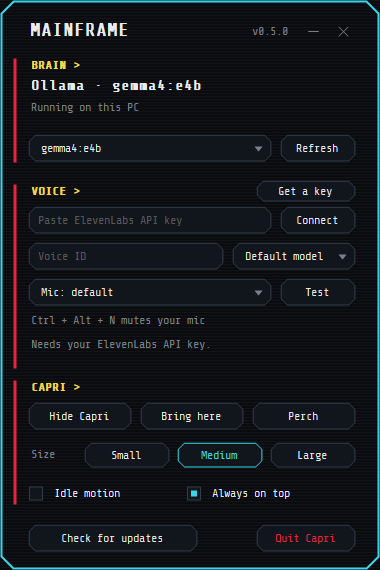
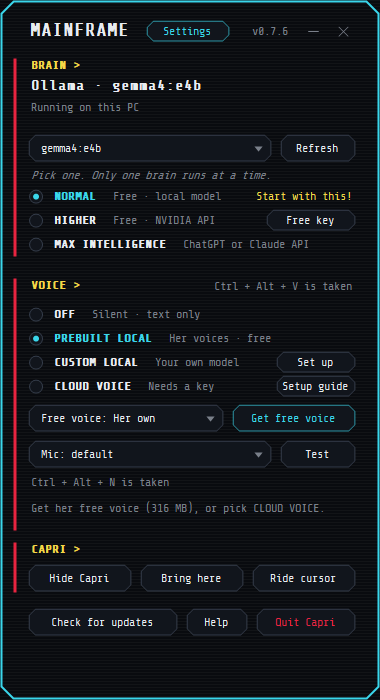
her readme gets a face lift: download buttons and badges, the fan notice up top, games and her mini player in what she does, 0.7.6 pictures, a her voice section with the cloning policy, and the roadmap folded away

diff --git a/README.md b/README.md
@@ -1,39 +1,34 @@
-<p align="center">
-  <img src="assets/chip-source.png" alt="Chip" width="40%" align="middle">
-  <img src="assets/capri.png" alt="Capri" width="40%" align="middle">
-</p>
+<div align="center">
 
-<p align="center">
-  Bring Capri (back lol) to life as a desktop companion! Inspired by jpartnma_'s tiktok video.
-</p>
+<img src="assets/capri.png" alt="Capri" width="240">
 
-<p align="center">
-  <a href="https://github.com/lachydotmcg/capri-desktop/releases/latest/download/Capri-Setup.exe"><b>Download for Windows</b></a>
-  &nbsp;·&nbsp;
-  <a href="#mac-and-linux-early-preview">Mac and Linux</a>
-  &nbsp;·&nbsp;
-  <a href="https://lachydotmcg.github.io/capri-desktop/setup/">Setup guide</a>
-  &nbsp;·&nbsp;
-  <a href="https://lachydotmcg.github.io/capri-desktop/">Website</a>
-  &nbsp;·&nbsp;
-  <a href="https://discord.gg/F4fDHfGtFk">Discord</a>
-  &nbsp;·&nbsp;
-  <a href="#support">Support</a>
-</p>
+# Capri
+
+**Bring Capri (back lol) to life as a desktop companion!**<br>
+She sits on your windows, talks back, plays your games and gets into everything.
+
+<a href="https://github.com/lachydotmcg/capri-desktop/releases/latest/download/Capri-Setup.exe"><img src="https://img.shields.io/badge/Download%20for%20Windows-ff2a6d?style=for-the-badge" alt="Download for Windows"></a>
+<a href="#mac-and-linux-early-preview"><img src="https://img.shields.io/badge/Mac%20and%20Linux-1b1d21?style=for-the-badge" alt="Mac and Linux"></a>
+
+<a href="https://github.com/lachydotmcg/capri-desktop/releases/latest"><img src="https://img.shields.io/github/v/release/lachydotmcg/capri-desktop?label=latest&color=05d9e8&style=flat-square" alt="Latest release"></a>
+<a href="https://github.com/lachydotmcg/capri-desktop/releases"><img src="https://img.shields.io/github/downloads/lachydotmcg/capri-desktop/total?color=05d9e8&style=flat-square" alt="Downloads"></a>
+<a href="https://discord.gg/F4fDHfGtFk"><img src="https://img.shields.io/badge/Discord-join%20us-5865F2?logo=discord&logoColor=white&style=flat-square" alt="Discord"></a>
+
+[Setup guide](https://lachydotmcg.github.io/capri-desktop/setup/) · [Website](https://lachydotmcg.github.io/capri-desktop/) · [Help](https://lachydotmcg.github.io/capri-desktop/help/) · [Support](#support)
+
+<sub>Inspired by jpartnma_'s TikTok video.</sub>
+
+</div>
 
 <table align="center">
   <tr>
-    <td align="center"><img src="assets/readme/idle.webp" alt="Capri idling and blinking" width="150"><br><sub>Hanging out</sub></td>
-    <td align="center"><img src="assets/readme/talk.webp" alt="Capri talking" width="150"><br><sub>Talking</sub></td>
-    <td align="center"><img src="assets/readme/tossed.webp" alt="Capri flailing while dragged" width="150"><br><sub>Getting tossed</sub></td>
-    <td align="center"><img src="assets/readme/glitch.webp" alt="Capri glitching" width="150"><br><sub>Glitching</sub></td>
-    <td align="center"><img src="assets/readme/sleep.webp" alt="Capri asleep, then booting back up" width="150"><br><sub>Napping</sub></td>
+    <td align="center"><img src="assets/readme/idle.webp" alt="Capri idling and blinking" width="140"><br><sub>Hanging out</sub></td>
+    <td align="center"><img src="assets/readme/talk.webp" alt="Capri talking" width="140"><br><sub>Talking</sub></td>
+    <td align="center"><img src="assets/readme/tossed.webp" alt="Capri flailing while dragged" width="140"><br><sub>Getting tossed</sub></td>
+    <td align="center"><img src="assets/readme/glitch.webp" alt="Capri glitching" width="140"><br><sub>Glitching</sub></td>
+    <td align="center"><img src="assets/readme/sleep.webp" alt="Capri asleep, then booting back up" width="140"><br><sub>Napping</sub></td>
   </tr>
 </table>
-
-<p align="center">
-  <sub>Her window perch and music perch are by artist and animator an artist who prefers to stay private:</sub>
-</p>
 
 <table align="center">
   <tr>
@@ -42,23 +37,41 @@
   </tr>
 </table>
 
-Beware that Capri may try to take over your human CPU. We take no responsibility for her actions.
+<p align="center"><sub>Her window perch and music perch are by her artist, who prefers to stay private.</sub></p>
+
+> [!NOTE]
+> Capri is an unofficial fan project and is not approved or endorsed by CD PROJEKT RED, the anime's rights holders or its voice actors.
 
 ## What she does
 
-- **Talks back.** Type to her and she answers in her own words.
-- **Talks out loud.** In her own free voice, or through Fish Audio, ElevenLabs or a voice model of yours. Or voice chat with her.
-- **Does things for you.** Ask her to open apps, play music or close a tab.
-- **Watches you play.** Turn it on and she comments on your games.
-- **Sits on your stuff.** Drop her on a window, an icon or the bottom of your screen.
+- **Talks back.** Type to her or voice chat, and turn on "Hey Capri" to call her by name. She answers in her own words, in 80 languages.
+- **Talks out loud.** In her own free voice, a voice model of yours, or Fish Audio, ElevenLabs or OpenAI. See [Her voice](#her-voice).
+- **Plays your games.** She comments while you play, and she can play too. She's still learning.
+- **Does things for you.** She opens apps, plays music, closes tabs and clicks through jobs with her own cursor. Talk to her mid-job, or press Esc to stop her.
+- **Remembers you.** Your past chats and what she saw on your screen, kept on your PC.
+- **Sits on your stuff.** She perches on your windows and sways to your music, or drops onto an icon or the bottom of your screen.
+- **Shows your music.** A little cyberpunk mini player, with her perched on it (Windows).
 
-<p align="center">
-  <img src="assets/readme/bubble.png" alt="Capri's speech box with the pencil and wave buttons" width="31%">
-  <img src="assets/readme/sit.png" alt="Capri sitting on a window" width="31%">
-  <img src="assets/readme/mainframe.png" alt="The Capri Mainframe" width="22%">
-</p>
+<table align="center">
+  <tr>
+    <td align="center"><img src="assets/readme/mini-player.png" alt="Capri perched on her cyberpunk mini player while a song plays" width="300"><br><sub>Her mini player</sub></td>
+    <td align="center"><img src="assets/readme/bubble.png" alt="Capri's speech box with the pencil and wave buttons" width="220"><br><sub>Talking to her</sub></td>
+    <td align="center"><img src="assets/readme/mainframe.png" alt="The Capri Mainframe with her BRAIN and VOICE rows" width="170"><br><sub>The Mainframe</sub></td>
+  </tr>
+</table>
 
-## What you need
+Beware that Capri may try to take over your human CPU. We take no responsibility for her actions.
+
+## Getting started
+
+1. Download **[Capri-Setup.exe](https://github.com/lachydotmcg/capri-desktop/releases/latest/download/Capri-Setup.exe)** and run it
+2. In the Capri Mainframe, press **Set up her brain**, or press **Free key** to use a free NVIDIA key
+3. Optional: pick another voice under **VOICE** (see [Her voice](#her-voice))
+
+Stuck? The [setup guide](https://lachydotmcg.github.io/capri-desktop/setup/) walks through it, or ask in the [Discord](https://discord.gg/F4fDHfGtFk). Windows or your antivirus may warn you because she's a new app. All the code is here.
+
+<details>
+<summary><b>What your PC needs</b></summary>
 
 - Windows 10 or 11 (64-bit). Nothing else to install.
 - A mic, if you want to voice chat.
@@ -70,22 +83,14 @@ Beware that Capri may try to take over your human CPU. We take no responsibility
 | Space | 3 to 5 GB | Under 100 MB |
 | Internet | Only for the download | Always |
 
-## Getting started
-
-1. Download **Capri-Setup.exe** and run it
-2. In the Capri Mainframe, press **Set up her brain**, or press **Free key** to use a free NVIDIA key
-3. Optional: another voice under **VOICE**, like Fish Audio's free tier under **CLOUD VOICE**
-
-Stuck? The [setup guide](https://lachydotmcg.github.io/capri-desktop/setup/) walks through it, or ask in the [Discord](https://discord.gg/F4fDHfGtFk).
-
-Windows or your antivirus may warn you because it's a new app. All the code is here.
+</details>
 
 ## Mac and Linux (early preview)
 
-She sits on your windows and chats, talks with an ElevenLabs key, opens apps and controls your music. The Mainframe, voice chat and jobs with her own cursor are Windows-only for now.
+She sits on your windows and chats, talks with an ElevenLabs key, remembers your chats, watches your screen, opens, switches and closes apps and controls your music. The Mainframe, voice chat and jobs with her own cursor are Windows-only for now.
 
 1. Download [Mac (Apple Silicon)](https://github.com/lachydotmcg/capri-desktop/releases/latest/download/Capri-mac-apple-silicon.zip), [Mac (Intel)](https://github.com/lachydotmcg/capri-desktop/releases/latest/download/Capri-mac-intel.zip) or [Linux](https://github.com/lachydotmcg/capri-desktop/releases/latest/download/Capri-linux-x64.tar.gz)
-2. Install [Ollama](https://ollama.com), then run `ollama pull gemma4:e4b` for her brain
+2. For her brain, use a free NVIDIA key or your own OpenAI, Claude or DeepSeek key from **Brain** in her right-click menu. Or install [Ollama](https://ollama.com) and run `ollama pull gemma4:e4b`
 3. **Mac:** unzip it, drag Capri into Applications, then open Terminal and run this once. Needs macOS 15 or newer
    ```bash
    xattr -dr com.apple.quarantine /Applications/Capri.app
@@ -103,25 +108,41 @@ She sits on your windows and chats, talks with an ElevenLabs key, opens apps and
 Just ask her for things, like "open Spotify", "play Blinding Lights", "pause", "what's playing?" or "close Discord".
 
 <details>
-<summary>All controls</summary>
+<summary><b>All controls</b></summary>
 
 | Control | What it does |
 | --- | --- |
 | Shift + drop | sit her right where you drop her |
 | Ctrl + drop | she hangs on; click her to let go |
 | Mic button | mute your mic in voice chat |
+| "Hey Capri" | she glitches in and opens voice chat. Turn on Listen for "Hey Capri" under Settings > HABITS > Security (Windows and English for now) |
 | Ctrl + Alt + V | start or stop voice chat (click its hint in the Mainframe to change it) |
 | Ctrl + Alt + N | mute your mic (click its hint in the Mainframe to change it) |
 | Ctrl + Alt + T | open her typing box from anywhere |
 | Ctrl + Alt + H | hide or show her |
+| Ctrl + Alt + P | Quiet: no comments, pop-ins or check-ins until you press it again. She still answers you |
 | Esc | stop a job she's doing |
 | Ctrl + Alt + C | get her off your cursor |
 | Right-click, Move | she hops between your open windows |
 | Watch my screen | in the Mainframe: she comments as you play |
-| PREBUILT LOCAL / CUSTOM LOCAL / CLOUD VOICE | in the Mainframe under VOICE: PREBUILT LOCAL is her own voice, free on your PC, and HD in its list is a better-sounding one for graphics cards with 6 GB or more that copies a clip you pick (Capri ships no voice clip); CUSTOM LOCAL runs a voice model you set up on your PC; CLOUD VOICE is Fish Audio (free tier), ElevenLabs or OpenAI with your own key |
 | Help | in the Mainframe: opens the help page |
 
 </details>
+
+## Her voice
+
+| Under VOICE | What it is |
+| --- | --- |
+| **PREBUILT LOCAL** | Her own voices, free on your PC. **HD** sounds better on a graphics card with 6 GB or more, and copies a clip you pick |
+| **CUSTOM LOCAL** | A voice model you run: a Piper, Kokoro, Kitten or Pocket TTS file, or your own Kokoro-FastAPI, Fish Speech or Qwen3-TTS server |
+| **CLOUD VOICE** | Fish Audio (free tier), ElevenLabs or OpenAI, with your own key |
+
+For a Capri-style voice in Fish Audio or ElevenLabs, paste the [voice prompt from the setup guide](https://lachydotmcg.github.io/capri-desktop/setup/#voice) into their Voice Design.
+
+> [!IMPORTANT]
+> Our project-provided synthetic voice is in Capri's Mainframe and runs on your PC. You may connect third-party text-to-speech services, but we don't provide guides for voice cloning tools. Our only voice-design help is a text prompt for making a synthetic voice.
+>
+> Only use voices you have the necessary rights and permissions to use, and follow the provider's terms. We do not endorse unauthorized cloning or impersonation of voice actors or other individuals. **Capri prohibits cloning or impersonating a living person's voice without explicit, informed consent or other valid authorization.**
 
 ## Make her yours
 
@@ -131,6 +152,9 @@ Pick what she calls you, her language, her voice and what she does on your PC fr
 - Her personality is `DefaultPersonality` in [app/Brain.cs](app/Brain.cs), so a pull request can suggest a change for everyone
 
 ## Roadmap
+
+<details>
+<summary><b>What's done and what's next</b></summary>
 
 **Her personality**
 
@@ -151,6 +175,7 @@ Pick what she calls you, her language, her voice and what she does on your PC fr
 - [x] Three brain tiers: NORMAL, HIGHER and MAX INTELLIGENCE
 - [x] Remembering things about you, in her notes (me.md)
 - [x] Keeping your chat for up to a week
+- [x] Remembering past chats and what she saw on your screen, and bringing up old moments herself (0.7.6)
 - [x] Calling you by a nickname, and replying in 80 languages
 - [x] Saying in plain words when your PC is short on RAM or storage
 - [x] Watching your screen and commenting on your games
@@ -166,9 +191,11 @@ Pick what she calls you, her language, her voice and what she does on your PC fr
 - [x] Turning her voice off, so she just types
 - [x] Muting your mic pauses ElevenLabs voice chat
 - [x] ElevenLabs voice chat stops asking if you're still there when you go quiet or mute
-- [x] An optional HD voice for strong PCs (Qwen3-TTS 1.7B). Kokoro stays the default
+- [x] An optional HD voice for strong PCs (Qwen3-TTS 1.7B) that copies a clip you pick. Kokoro stays the default
 - [x] Sliders for her voice: pitch, speed, robot and glitch, so you can tune how she sounds
+- [x] Voice layers: two more copies of her voice, one higher and one lower (0.7.6)
 - [x] Any voice model you set up yourself: a model file on your PC, your own server, or Fish Audio and OpenAI in the cloud
+- [x] Saying "Hey Capri" to start voice chat (0.7.6, Windows and English for now)
 
 **Jobs on your PC**
 
@@ -184,7 +211,9 @@ Pick what she calls you, her language, her voice and what she does on your PC fr
 - [x] Doing what you ask without asking first, and picking the song or video herself when you leave it to her
 - [x] Opening as many apps as you name in one ask, like "open Discord, Spotify and Steam"
 - [x] Use her cursor, on by default: she searches YouTube and picks a video, plays from Spotify's search and drags its volume slider herself
-- [x] Blackwall mode (was Bypass all permissions): a switch so she won't ask twice when you ask her to do something, even to buy or delete
+- [x] Talking to her mid-job: she says "got it", does it and carries on (0.7.6)
+- [x] SECURITY: Lockdown, Guarded, Trusted or Blackwall (was Bypass all permissions), with a toggle for each thing she does on your PC (0.7.6)
+- [x] Playing your games with you. She's still learning
 - [ ] Controlling YouTube: skip and fullscreen
 - [ ] Looking things up and telling you the answer
 - [ ] Working with your files: open, read and edit the ones you pick
@@ -204,20 +233,24 @@ Pick what she calls you, her language, her voice and what she does on your PC fr
 - [x] Riding your cursor
 - [x] Wandering between your open windows
 - [x] Dancing to the beat when music plays
+- [x] A cyberpunk mini player for your music, with her perched on it (0.7.6)
+- [x] Going to sleep when you tell her, and Quiet (Ctrl + Alt + P) when you need to focus (0.7.6)
 - [x] Staying on top of your games
 - [x] Sizes from Tiny to Giant
 - [x] A tray icon and a right-click menu
 
 **Mac and Linux**
 
-- [x] An early preview: she sits on your windows and chats through Ollama
+- [x] An early preview: she sits on your windows and chats
 - [x] Her ElevenLabs voice, wandering and dancing
 - [x] Opening apps and sites, and controlling your music
+- [x] Brains from a key: a free NVIDIA key, or OpenAI, Claude or DeepSeek, with no Ollama needed (0.7.6)
+- [x] Chat memory, watching your screen, pop-ins and Discord status (0.7.6)
+- [x] Switching and closing your apps (0.7.6)
+- [x] Telling you when a new version is out (0.7.6)
 - [ ] The Mainframe
 - [ ] Voice chat and her free voice
-- [ ] Her built-in brain and brains from a key, not just Ollama
-- [ ] Jobs with her own cursor, and switching or closing windows
-- [ ] Watching your screen
+- [ ] Jobs with her own cursor
 - [ ] Updates that install themselves
 - [ ] Apple approving (notarizing) her, so macOS stops blocking her
 - [ ] Everything else Windows has, so they stop being an early preview
@@ -234,6 +267,8 @@ Pick what she calls you, her language, her voice and what she does on your PC fr
 - [ ] Changing her hop-off key (Ctrl + Alt + C) too
 - [ ] The Mainframe fitting any screen shape and scaling, like Virtual Super Resolution
 - [ ] Code signing, so Windows stops warning you about her
+
+</details>
 
 ## Support
 
@@ -252,10 +287,10 @@ See [CONTRIBUTING.md](CONTRIBUTING.md) for how to build her, test her and send a
 
 **Fan work:** Capri is an unofficial fan project and is not approved or endorsed by CD PROJEKT RED, the anime's rights holders or its voice actors.
 
-**Voices:** Our project-provided synthetic voice is in Capri's Mainframe and runs on your PC. You may connect third-party text-to-speech services, but we don't provide guides for voice cloning tools. Our only voice-design help is a text prompt for making a synthetic voice. Only use voices you have the necessary rights and permissions to use, and follow the provider's terms. We do not endorse unauthorized cloning or impersonation of voice actors or other individuals. Capri prohibits cloning or impersonating a living person's voice without explicit, informed consent or other valid authorization.
+**Voices:** see [Her voice](#her-voice) for what Capri supplies and what you may use with her.
 
 Free for anything non-commercial: use her, share her, change her. No selling her or putting her in paid products. Credit us when you use her: her artist for her art and animations, and Capri, with a link to this page, for her code and anything else. Full terms in [LICENSE.md](LICENSE.md) (PolyForm Noncommercial 1.0.0). The credits are its Required Notices, so anyone who passes on any part of her has to pass them on too.
 
 Have fun and more updates to come!
 
-<sub>Window perch and music perch animations: an artist who prefers to stay private. Setup guide based on Dancer's guide in the Discord. Font: Share Tech Mono (OFL). Free voice: Kokoro-82M (Apache-2.0). Her own ears: [NVIDIA Parakeet TDT 0.6B v2](https://huggingface.co/nvidia/parakeet-tdt-0.6b-v2) for English and [v3](https://huggingface.co/nvidia/parakeet-tdt-0.6b-v3) for 25 European languages ([CC-BY-4.0](https://creativecommons.org/licenses/by/4.0/)), int8 exports by sherpa-onnx. Both run with [sherpa-onnx](https://github.com/k2-fsa/sherpa-onnx) (Apache-2.0). HD voice: [Qwen3-TTS 1.7B](https://github.com/QwenLM/Qwen3-TTS) (Apache-2.0), run with [qwentts.cpp](https://github.com/ServeurpersoCom/qwentts.cpp) (MIT).</sub>
+<sub>Window perch and music perch animations: her artist, who prefers to stay private. Setup guide based on Dancer's guide in the Discord. Font: Share Tech Mono (OFL). Free voice: Kokoro-82M (Apache-2.0). Her own ears: [NVIDIA Parakeet TDT 0.6B v2](https://huggingface.co/nvidia/parakeet-tdt-0.6b-v2) for English and [v3](https://huggingface.co/nvidia/parakeet-tdt-0.6b-v3) for 25 European languages ([CC-BY-4.0](https://creativecommons.org/licenses/by/4.0/)), int8 exports by sherpa-onnx. Both run with [sherpa-onnx](https://github.com/k2-fsa/sherpa-onnx) (Apache-2.0). HD voice: [Qwen3-TTS 1.7B](https://github.com/QwenLM/Qwen3-TTS) (Apache-2.0), run with [qwentts.cpp](https://github.com/ServeurpersoCom/qwentts.cpp) (MIT).</sub>
